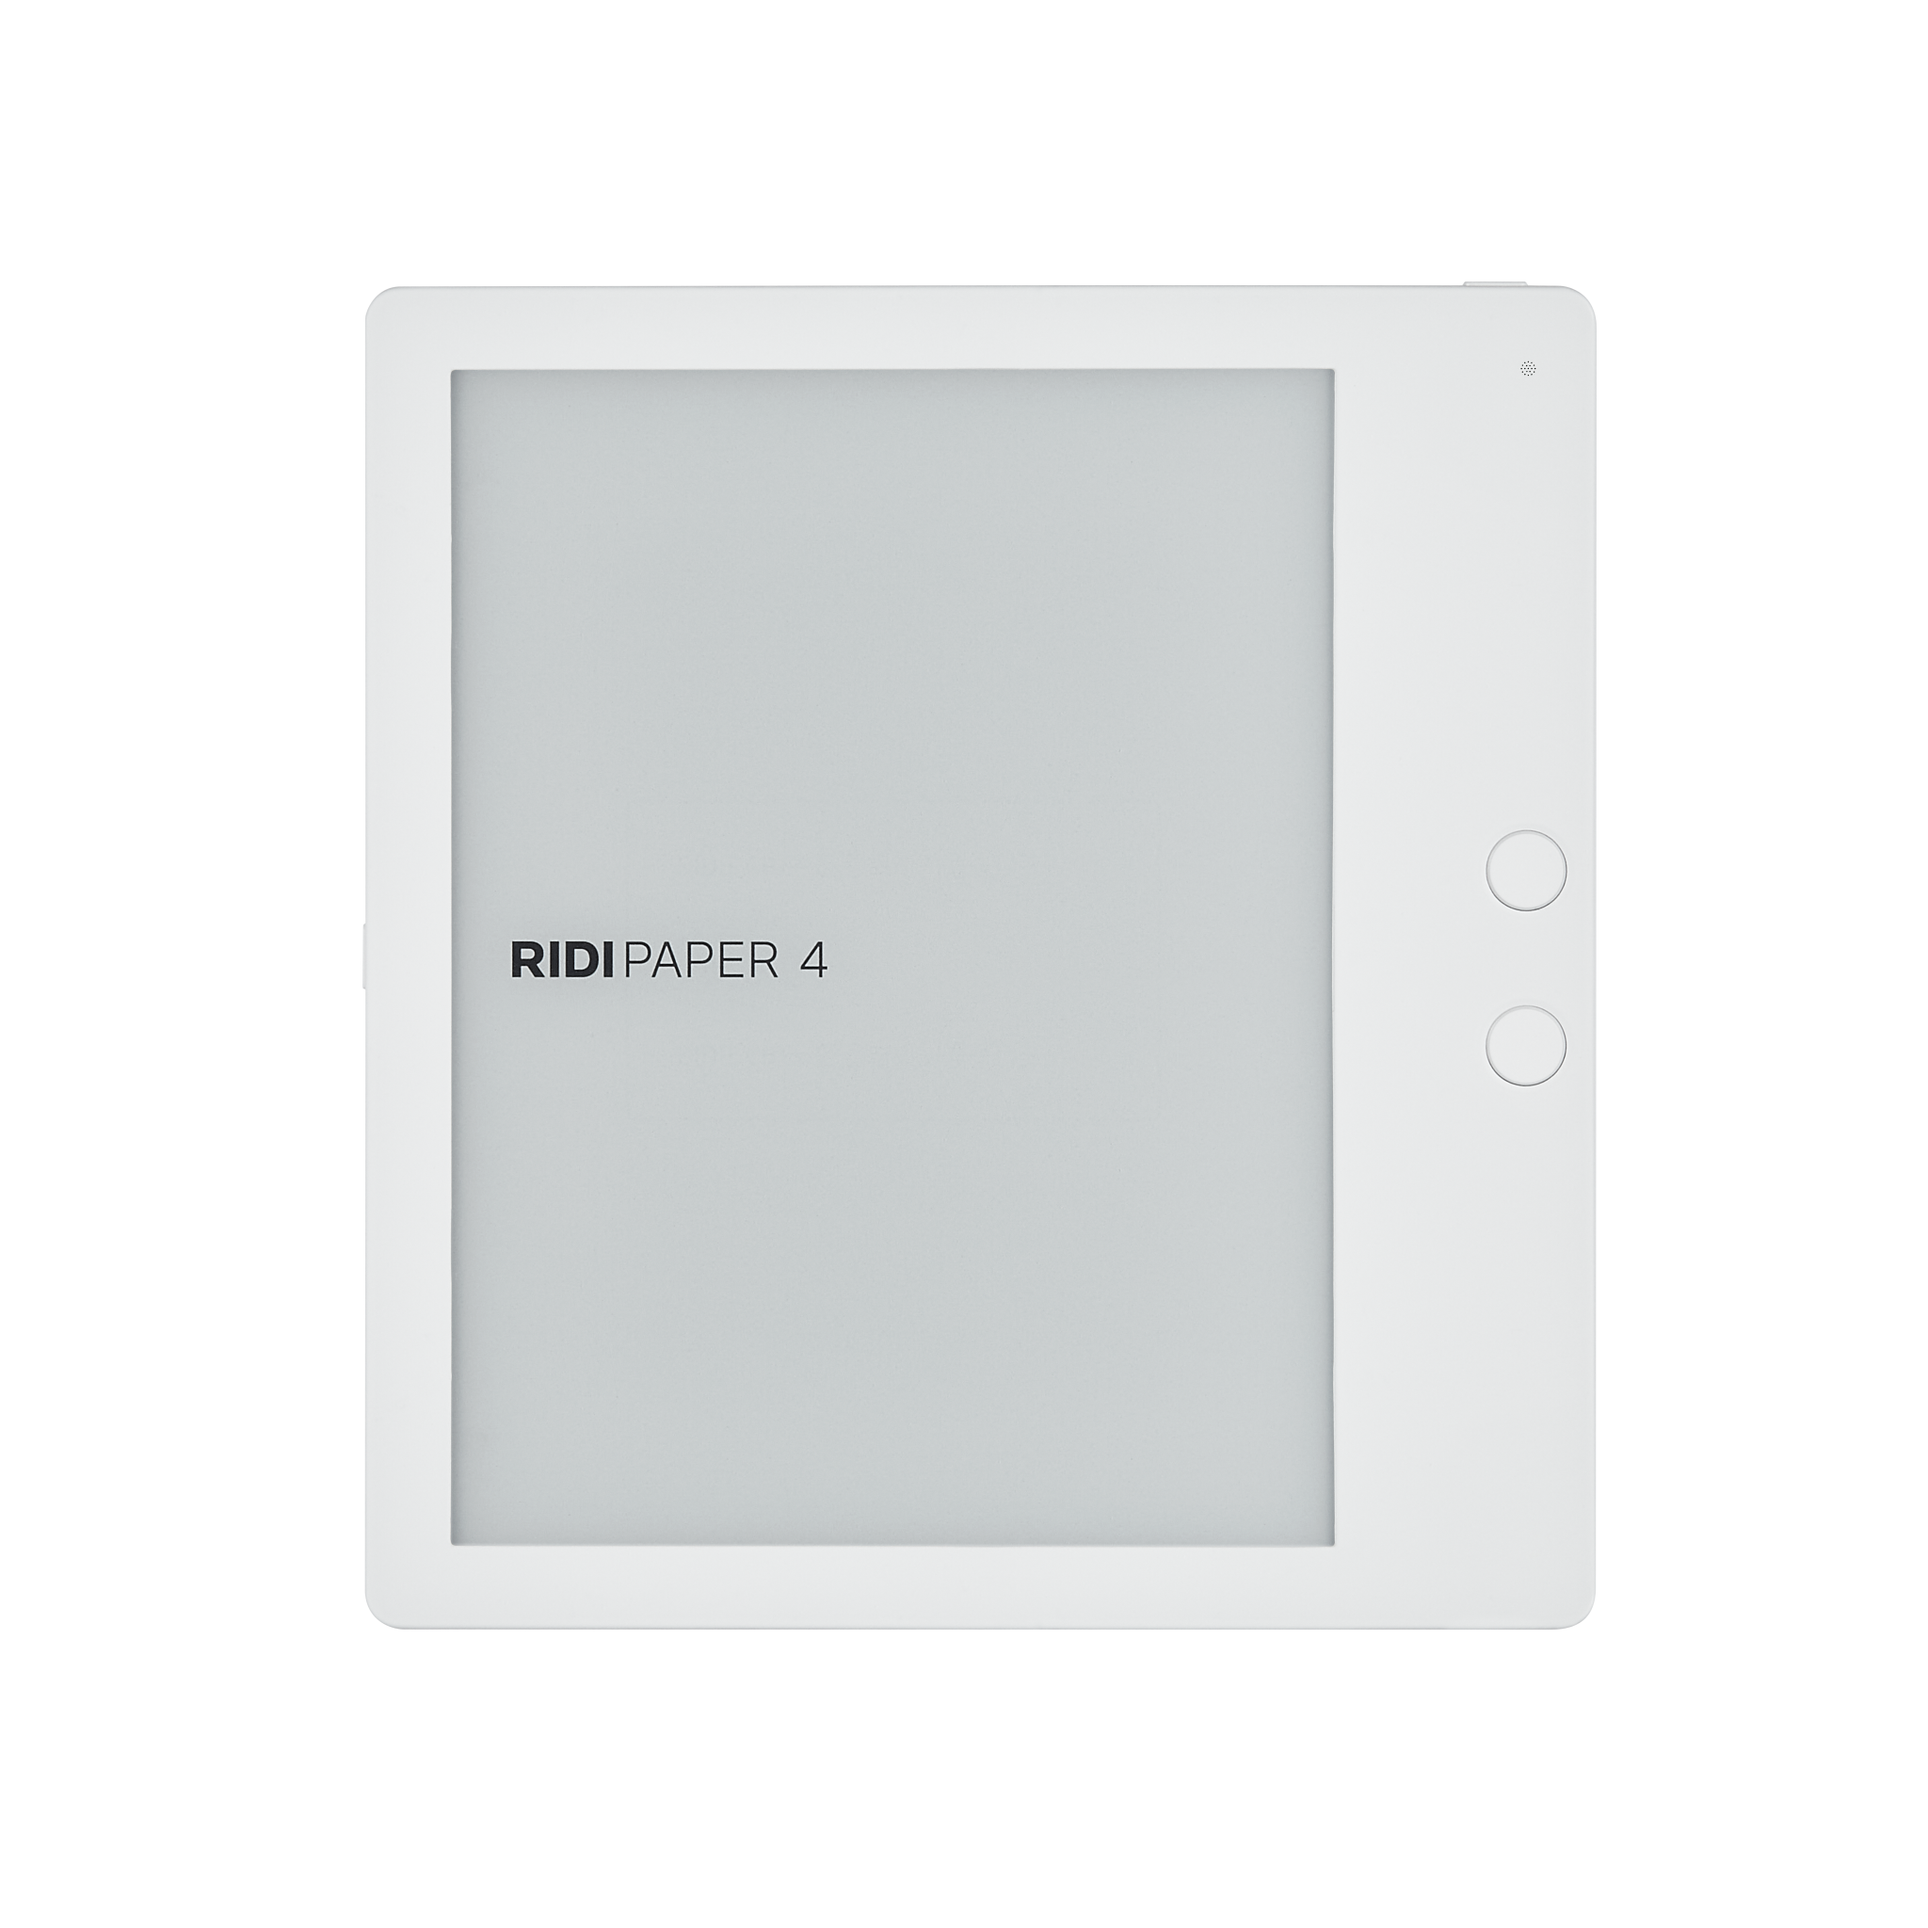
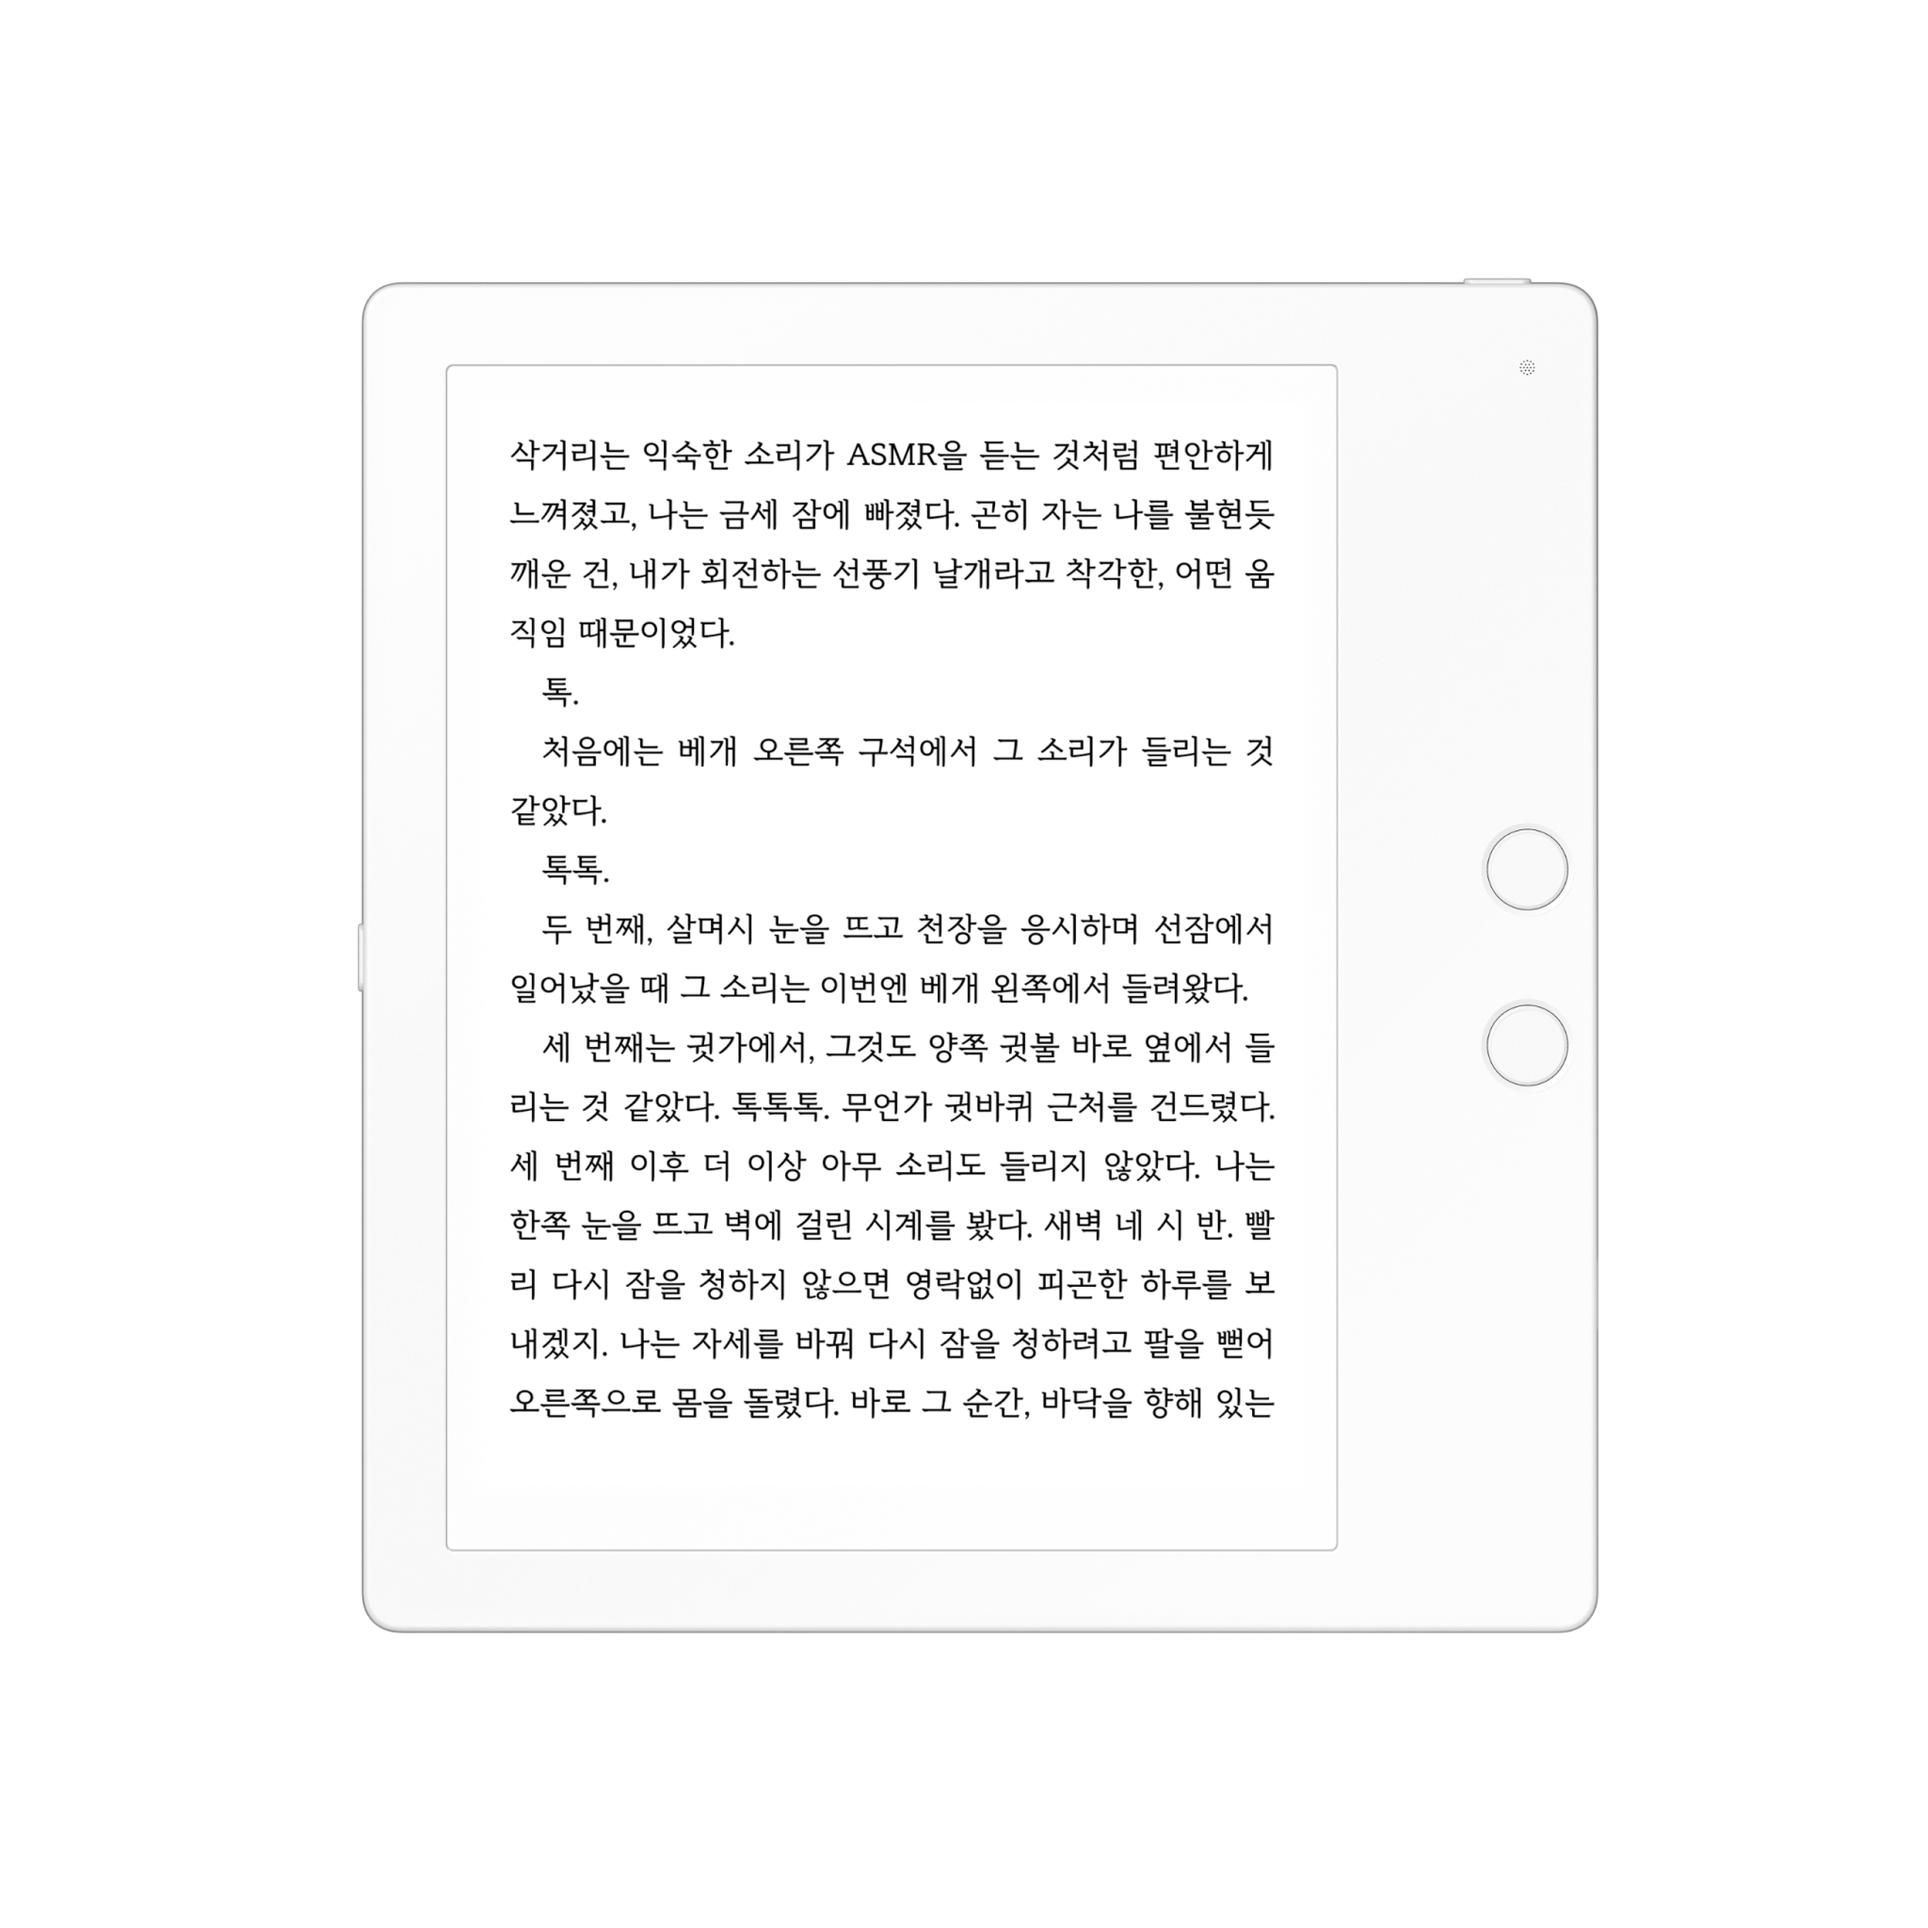
fix: change keyframes and ridipaper image in anims

diff --git a/src/components/ridipaper4/DeviceFeatures/DeviceOrientations.tsx b/src/components/ridipaper4/DeviceFeatures/DeviceOrientations.tsx
@@ -42,6 +42,11 @@ const DeviceOrientationsStage = styled('div')`
     padding-bottom: 100%;
   }
   
+  @media (max-width: 800px) {
+    width: 60vw;
+    right: 0%;
+  }
+  
   @media (max-width: 600px) {
     width: 100%;
     margin-top: 50%;
@@ -59,6 +64,10 @@ const RidiPaperContainer = styled('div')`
   width: 100%;
   height: 100%;
   opacity: 1;
+  
+  @media (max-width: 800px) {
+    transform-origin: 50% 50%;
+  }
 `;
 
 const RidiPaperImage = styled(Img)`
@@ -119,6 +128,10 @@ const TextContainer = styled('div')`
   transform: translate(0, -50%);
   opacity: 0;
   
+  @media (max-width: 800px) {
+    left: 15%;
+  }
+  
   @media (max-width: 600px) {
     top: 20%;
     left: 10%;
@@ -163,10 +176,13 @@ export const DeviceOrientations = (): JSX.Element => {
       offset: DURATION * 0.2,
     })
       .on('progress', (e: { progress: number }) => {
-        const transition = Math.min(e.progress / 0.75, 1);
-        ridipaperRef.current!.style.transform = `translate(-50%, -50%) rotate(${(180 * transition).toFixed(2)}deg)`;
-        previewTextRef.current!.style.opacity = (1 - transition).toFixed(2);
-        previewTextReverseRef.current!.style.opacity = transition.toFixed(2);
+        const transition = Math.min(e.progress / 0.9, 1);
+        const rotationTransition = Math.min(transition / 0.45, 1);
+        const textTransition = Math.max(0, Math.min((transition - 0.45) / 0.3, 1));
+        ridipaperRef.current!.style.transform =
+          `translate(-50%, -50%) rotate(${(180 * rotationTransition).toFixed(2)}deg)`;
+        previewTextRef.current!.style.opacity = (1 - textTransition).toFixed(2);
+        previewTextReverseRef.current!.style.opacity = textTransition.toFixed(2);
       })
       .addTo(controller);
   });

diff --git a/src/components/ridipaper4/Features/animations/AnimationVertical.ts b/src/components/ridipaper4/Features/animations/AnimationVertical.ts
@@ -6,18 +6,18 @@ export const AnimationVertical: Animation<FeatureKeyframes> = {
   keyframes: [
     [0, { name: 'RidiPaper/Rotation', value: 0 }],
     [0, { name: 'Text/Rotation', value: 0 }],
-    [0.2, { name: 'Text/Opacity', value: 1 }],
-    [0.2, { name: 'TextLandscape/Opacity', value: 0 }],
-    [0.25, { name: 'RidiPaper/Rotation', value: 90 }],
-    [0.25, { name: 'Text/Rotation', value: 90 }],
-    [0.3, { name: 'Text/Opacity', value: 0 }],
-    [0.3, { name: 'TextLandscape/Opacity', value: 1 }],
-    [0.575, { name: 'RidiPaper/Rotation', value: 90 }],
-    [0.575, { name: 'Text/Rotation', value: 90 }],
-    [0.575, { name: 'Text/Opacity', value: 0 }],
-    [0.575, { name: 'TextLandscape/Opacity', value: 1 }],
+    [0.125, { name: 'RidiPaper/Rotation', value: 90 }],
+    [0.125, { name: 'Text/Rotation', value: 90 }],
+    [0.275, { name: 'Text/Opacity', value: 1 }],
+    [0.275, { name: 'TextLandscape/Opacity', value: 0 }],
+    [0.4, { name: 'Text/Opacity', value: 0 }],
+    [0.4, { name: 'TextLandscape/Opacity', value: 1 }],
+    [0.6, { name: 'RidiPaper/Rotation', value: 90 }],
+    [0.6, { name: 'Text/Rotation', value: 90 }],
     [0.75, { name: 'RidiPaper/Rotation', value: 0 }],
     [0.75, { name: 'Text/Rotation', value: 0 }],
+    [0.75, { name: 'Text/Opacity', value: 0 }],
+    [0.75, { name: 'TextLandscape/Opacity', value: 1 }],
     [0.875, { name: 'Text/Opacity', value: 1 }],
     [0.875, { name: 'TextLandscape/Opacity', value: 0 }],
   ]

diff --git a/src/components/ridipaper4/Features/animations/AnimationTemperature.ts b/src/components/ridipaper4/Features/animations/AnimationTemperature.ts
@@ -8,15 +8,19 @@ export const AnimationTemperature: Animation<FeatureKeyframes> = {
     [0, { name: 'Touch/Opacity', value: 0 }],
     [0, { name: 'Touch/Touch', value: 'false' }],
     [0, { name: 'Touch/Y', value: 70 }],
+    [0, { name: 'TextBackground/Brightness', value: 98 }],
     [0, { name: 'TextBackground/Temperature', value: 0 }],
     [0.2, { name: 'Touch/Touch', value: 'true' }],
     [0.2, { name: 'Touch/Opacity', value: 1 }],
     [0.7, { name: 'Touch/Y', value: 60 }],
     [0.7, { name: 'Touch/Opacity', value: 1 }],
-    [0.7, { name: 'TextBackground/Temperature', value: 22 }],
+    [0.7, { name: 'TextBackground/Brightness', value: 88 }],
+    [0.7, { name: 'TextBackground/Temperature', value: 60 }],
     [0.9, { name: 'Touch/Opacity', value: 0 }],
     [0.9, { name: 'Touch/Touch', value: 'false' }],
-    [0.9, { name: 'TextBackground/Temperature', value: 22 }],
+    [0.9, { name: 'TextBackground/Temperature', value: 60 }],
+    [0.9, { name: 'TextBackground/Brightness', value: 88 }],
     [1, { name: 'TextBackground/Temperature', value: 0 }],
+    [1, { name: 'TextBackground/Brightness', value: 98 }],
   ]
 };

diff --git a/src/components/ridipaper4/Features/animations/AnimationBrightness.ts b/src/components/ridipaper4/Features/animations/AnimationBrightness.ts
@@ -9,7 +9,7 @@ export const AnimationBrightness: Animation<FeatureKeyframes> = {
     [0, { name: 'Touch/Touch', value: 'false' }],
     [0, { name: 'Touch/Y', value: 70 }],
     [0, { name: 'TextBackground/Brightness', value: 98 }],
-    [0.2, { name: 'TextBackground/Brightness', value: 72 }],
+    [0.2, { name: 'TextBackground/Brightness', value: 88 }],
     [0.2, { name: 'Touch/Touch', value: 'true' }],
     [0.2, { name: 'Touch/Opacity', value: 1 }],
     [0.7, { name: 'Touch/Y', value: 60 }],
@@ -19,6 +19,6 @@ export const AnimationBrightness: Animation<FeatureKeyframes> = {
     [0.9, { name: 'Touch/Opacity', value: 0 }],
     [0.9, { name: 'Touch/Y', value: 60 }],
     [0.9, { name: 'TextBackground/Brightness', value: 98 }],
-    [1, { name: 'TextBackground/Brightness', value: 79 }],
+    [1, { name: 'TextBackground/Brightness', value: 98 }],
   ]
 };

diff --git a/src/components/ridipaper4/Features/ObjectTextBackground.tsx b/src/components/ridipaper4/Features/ObjectTextBackground.tsx
@@ -5,12 +5,13 @@ import { TimelineContext } from './TimelineContext';
 
 const ObjectTextBackgroundContainer = styled('div')`
   position: absolute;
-  top: 49%;
-  left: 46.4%;
+  top: 49.7%;
+  left: 46.24%;
   transform: translate(-50%, -50%);
-  width: 46%;
-  height: 62.9%;
+  width: 46.15%;
+  height: 61.4%;
   background: #c8cccd;
+  border-radius: 0.5%;
 `;
 
 export const ObjectTextBackground = (): JSX.Element => {

diff --git a/src/components/ridipaper4/Features/ObjectText.tsx b/src/components/ridipaper4/Features/ObjectText.tsx
@@ -17,9 +17,10 @@ const TEXT_SIZE_MAP: Record<string, number> = {
 
 const ObjectTextContainer = styled('div')`
   position: absolute; 
-  top: 49%;
+  top: 50%;
   left: 47.4%;
   transform: translate(-50%, -50%);
+  transform-origin: 56% 49%;
   width: 44%;
   height: 59%;
   overflow: hidden;
